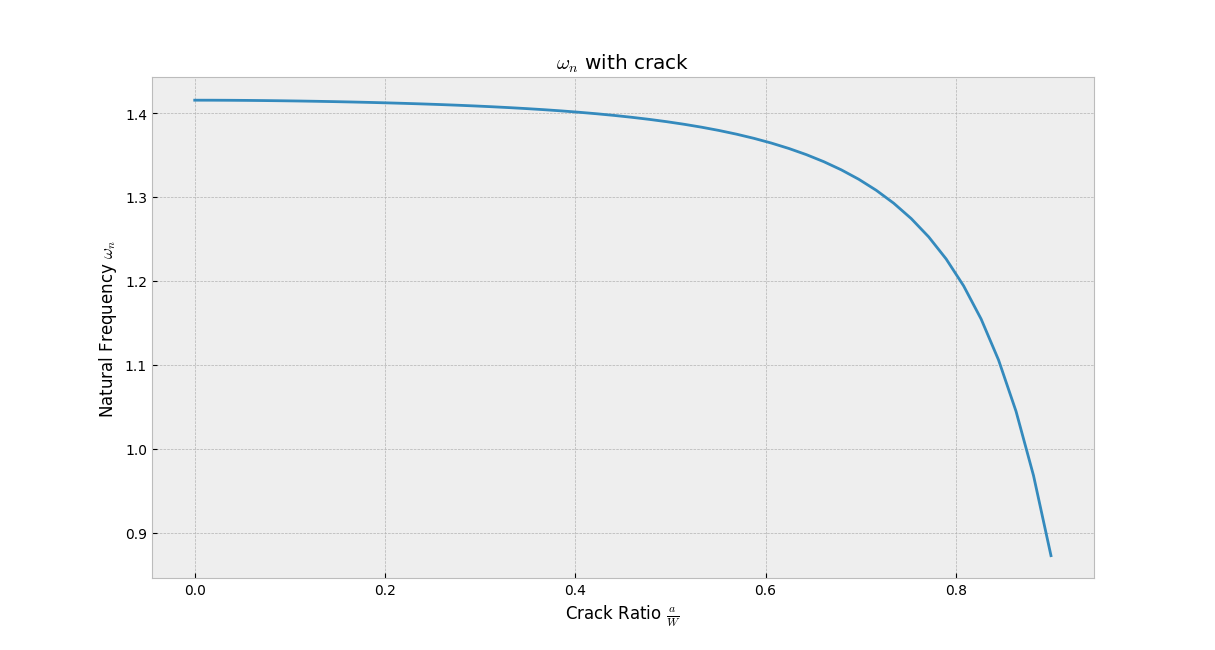
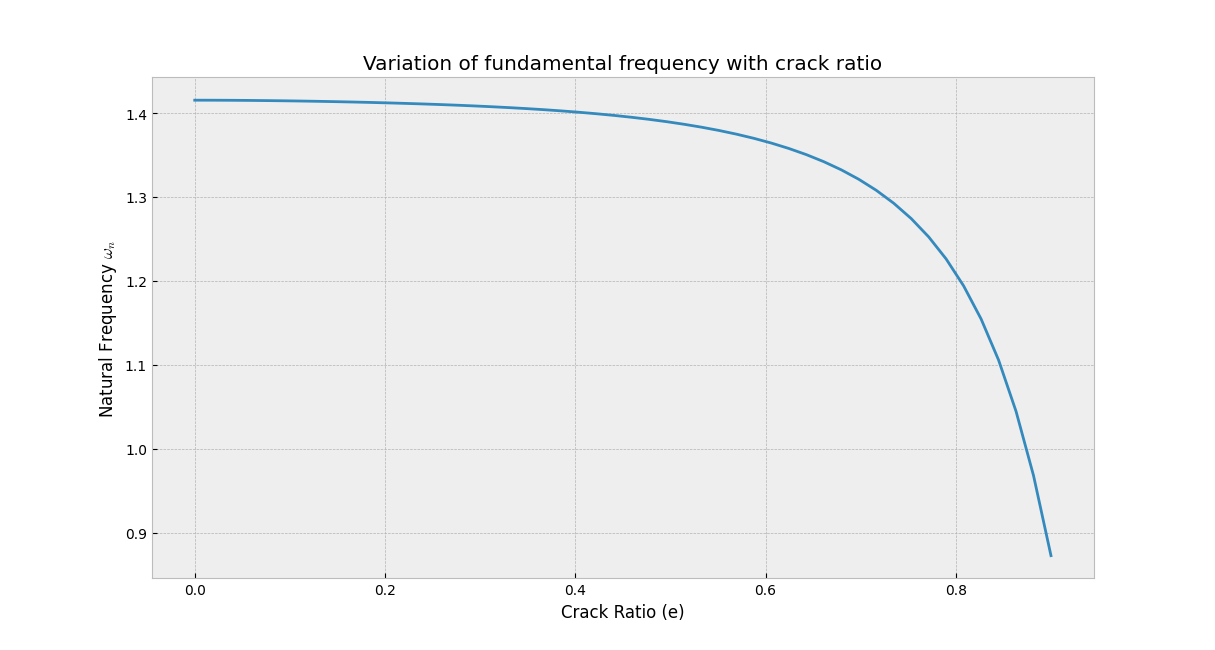
Adding PE and KE variation

Changed region(s): [[0.3045, 0.0615, 0.7309, 0.1231], [0.4568, 0.9231, 0.5786, 0.9538]]

diff --git a/main.py b/main.py
@@ -49,15 +49,15 @@ for i in range(len(crack_factor)):
 
 fig,ax1 = plt.subplots(1,1, figsize=(16, 9))
 ax1.plot(e, omega_n)
-ax1.set_title("$\omega_n$ with crack")
-ax1.set_xlabel("Crack Ratio $\\frac{a}{W}$")
+ax1.set_title("Variation of fundamental frequency with crack ratio")
+ax1.set_xlabel("Crack Ratio (e)")
 ax1.set_ylabel("Natural Frequency $\omega_n$")
 
 fig2 , ax2 = plt.subplots(1,1, figsize=(16, 9))
 ax2.plot(e , max_potential,'-o',label="max potential")
 ax2.plot(e,max_kinetic_energy,'-v',label = "max kinetic")
 ax2.set_title("Max Potential and Max Kinetic Energy vs crack ratio")
-ax2.set_xlabel("Crack Ratio $\\frac{a}{W}$")
+ax2.set_xlabel("Crack Ratio (e)")
 ax2.set_ylabel("Energies$")
 ax2.legend()
 plt.show()
